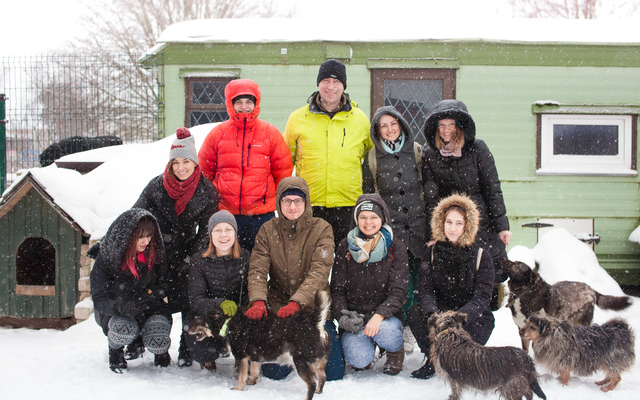
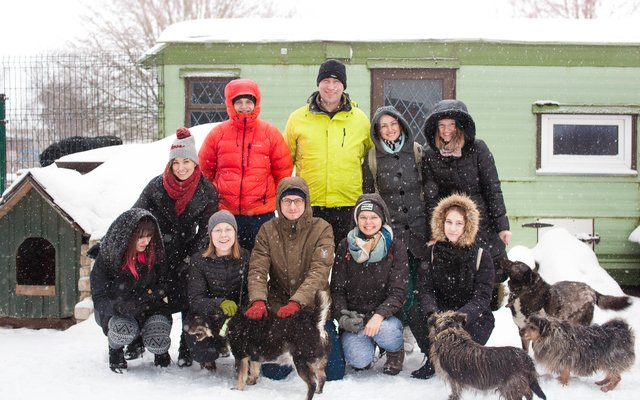
Optimize team image adn shadow

diff --git a/web/templates/web/sections/contact-us-section.html b/web/templates/web/sections/contact-us-section.html
@@ -12,7 +12,7 @@
         </header>
         <div class="row gap-y align-items-center">
             <div class="col-md-7">
-                <div class="rounded bg-img h-400 border"
+                <div class="rounded bg-img h-400 shadow-2"
                      style="background-image: url({% static 'web/img/landing/history/getpet-team-with-dogs-sos-gyvunai.jpg' %})"></div>
             </div>
 
